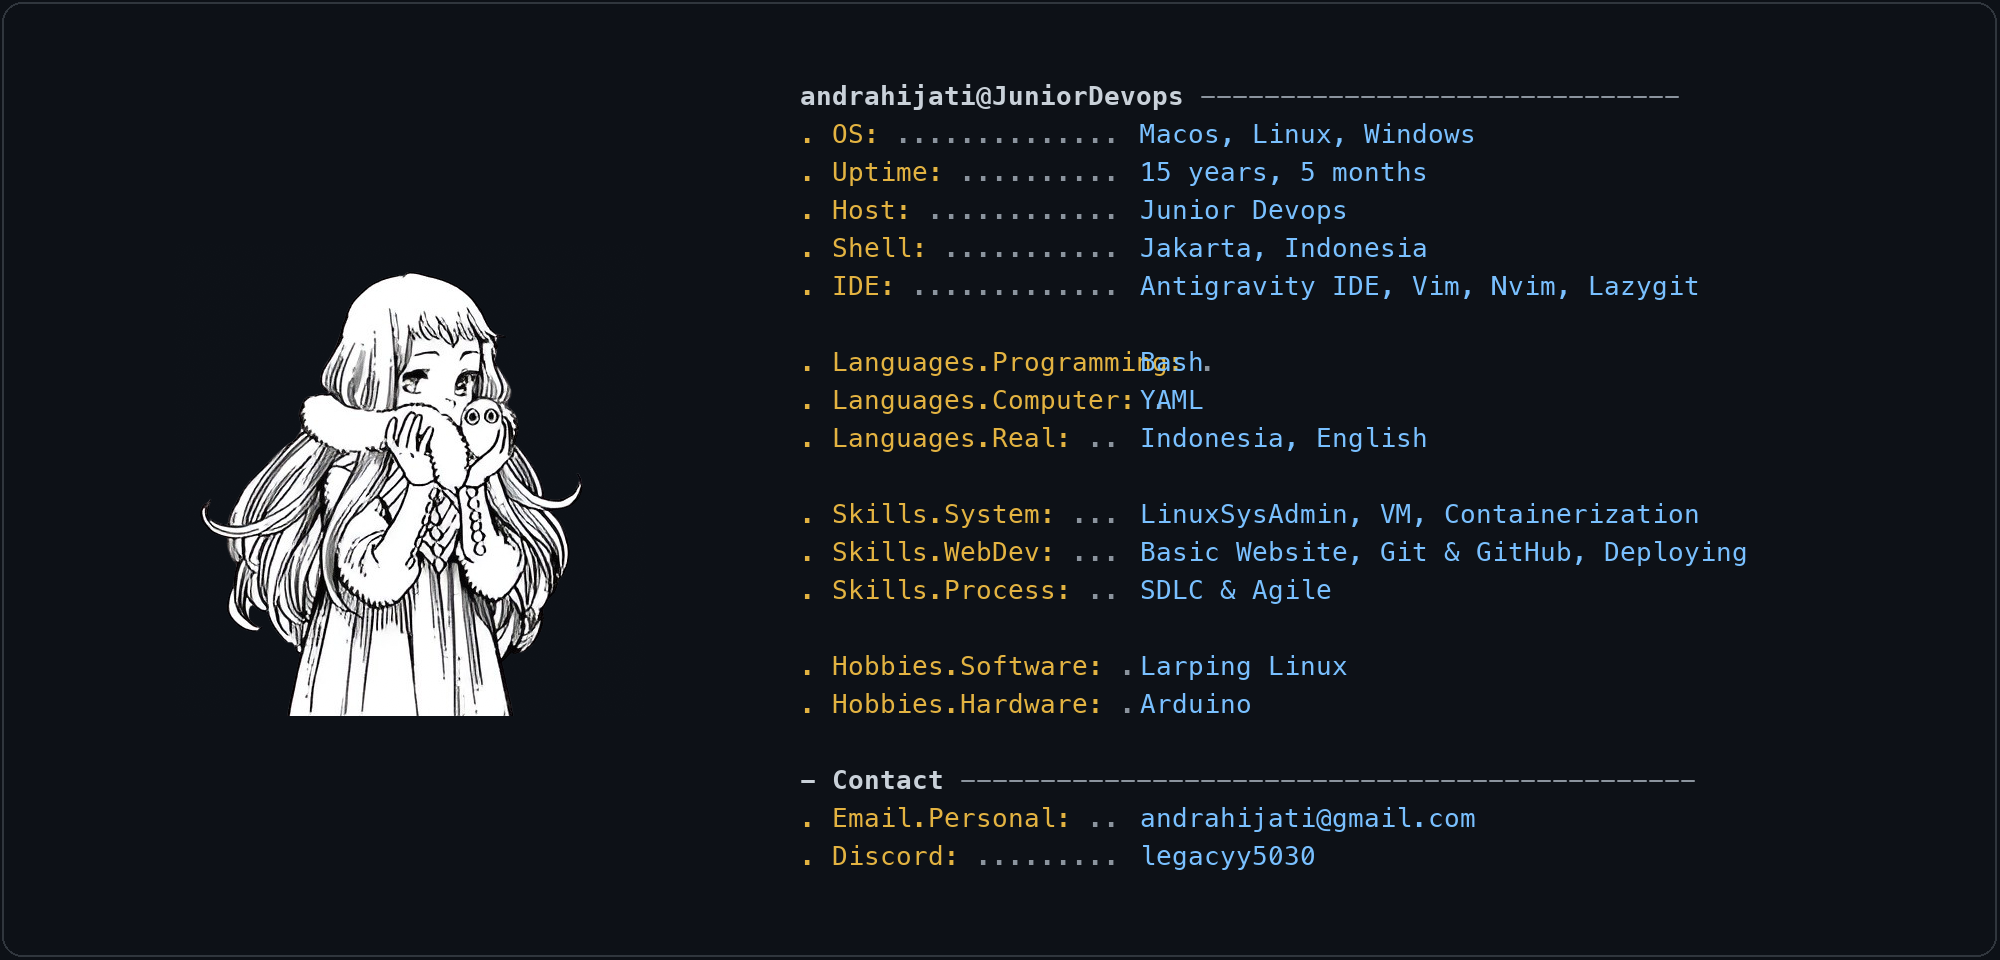
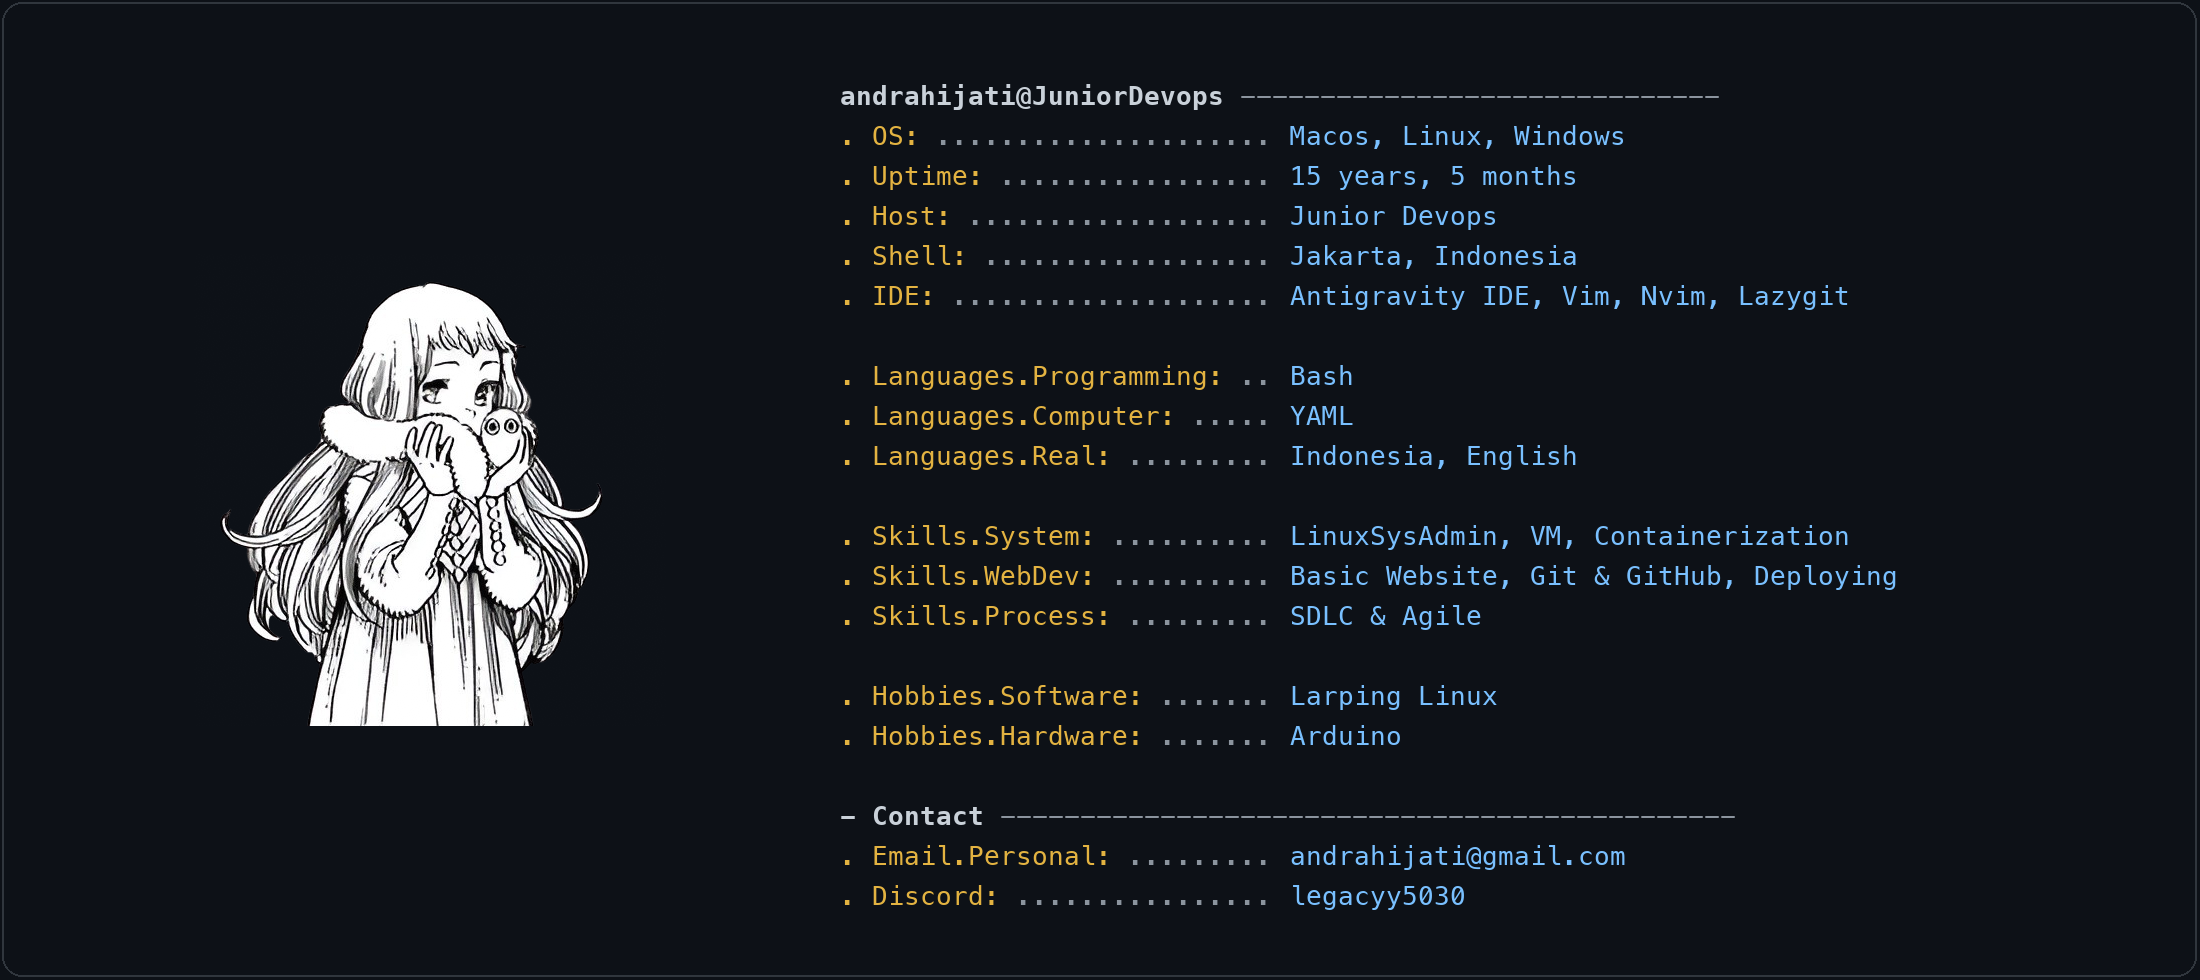
Fix alignment: expand canvas, use longest key for val column anchor

diff --git a/generate_png.py b/generate_png.py
@@ -26,7 +26,7 @@ stats = [
 ]
 
 scale = 2
-W, H = 1000 * scale, 480 * scale
+W, H = 1100 * scale, 490 * scale
 bg_color = (13, 17, 23)
 border_color = (48, 54, 61)
 
@@ -42,8 +42,9 @@ except:
     font_bold = ImageFont.load_default()
     font = ImageFont.load_default()
 
-IMG_W = 380 * scale
-IMG_H = 450 * scale
+# Bigger image
+IMG_W = 400 * scale
+IMG_H = 460 * scale
 try:
     prof = Image.open("profile.png")
     prof.thumbnail((IMG_W, IMG_H), Image.Resampling.LANCZOS)
@@ -54,12 +55,14 @@ try:
 except Exception as e:
     print(f"Image error: {e}")
 
-x_start = 400 * scale
+x_start = 420 * scale
 y = 40 * scale
-line_height = 19 * scale
+line_height = 20 * scale
 
-# Fixed value column: 570px from left edge (170px from text start)
-val_col = 570 * scale
+# The longest key is ". Languages.Programming:" so val column must be past that
+# measure it first
+longest_key_w = draw.textlength(". Languages.Programming: ", font=font)
+val_col = x_start + int(longest_key_w) + (25 * scale)  # 25px gap after longest key
 
 for key, val in stats:
     if key == "andrahijati@JuniorDevops":
@@ -76,7 +79,8 @@ for key, val in stats:
         draw.text((x_start, y), key, font=font, fill=(227, 179, 65))
         key_end = x_start + draw.textlength(key + " ", font=font)
         dot_width = draw.textlength(".", font=font)
-        dots_count = max(1, int((val_col - key_end - 8 * scale) / dot_width))
+        dots_space = val_col - key_end - (6 * scale)
+        dots_count = max(1, int(dots_space / dot_width))
         dots = "." * dots_count
         draw.text((key_end, y), dots, font=font, fill=(139, 148, 158))
         draw.text((val_col, y), val, font=font, fill=(121, 192, 255))
@@ -85,5 +89,5 @@ for key, val in stats:
 im.save("readme-banner-v4.png")
 
 with open("README.md", "w") as f:
-    f.write('<div align="center">\n  <img src="readme-banner-v4.png" width="1000" alt="Portfolio Terminal">\n</div>\n')
+    f.write('<div align="center">\n  <img src="readme-banner-v4.png" width="1100" alt="Portfolio Terminal">\n</div>\n')
 

diff --git a/README.md b/README.md
@@ -1,3 +1,3 @@
 <div align="center">
-  <img src="readme-banner-v4.png" width="1000" alt="Portfolio Terminal">
+  <img src="readme-banner-v4.png" width="1100" alt="Portfolio Terminal">
 </div>
